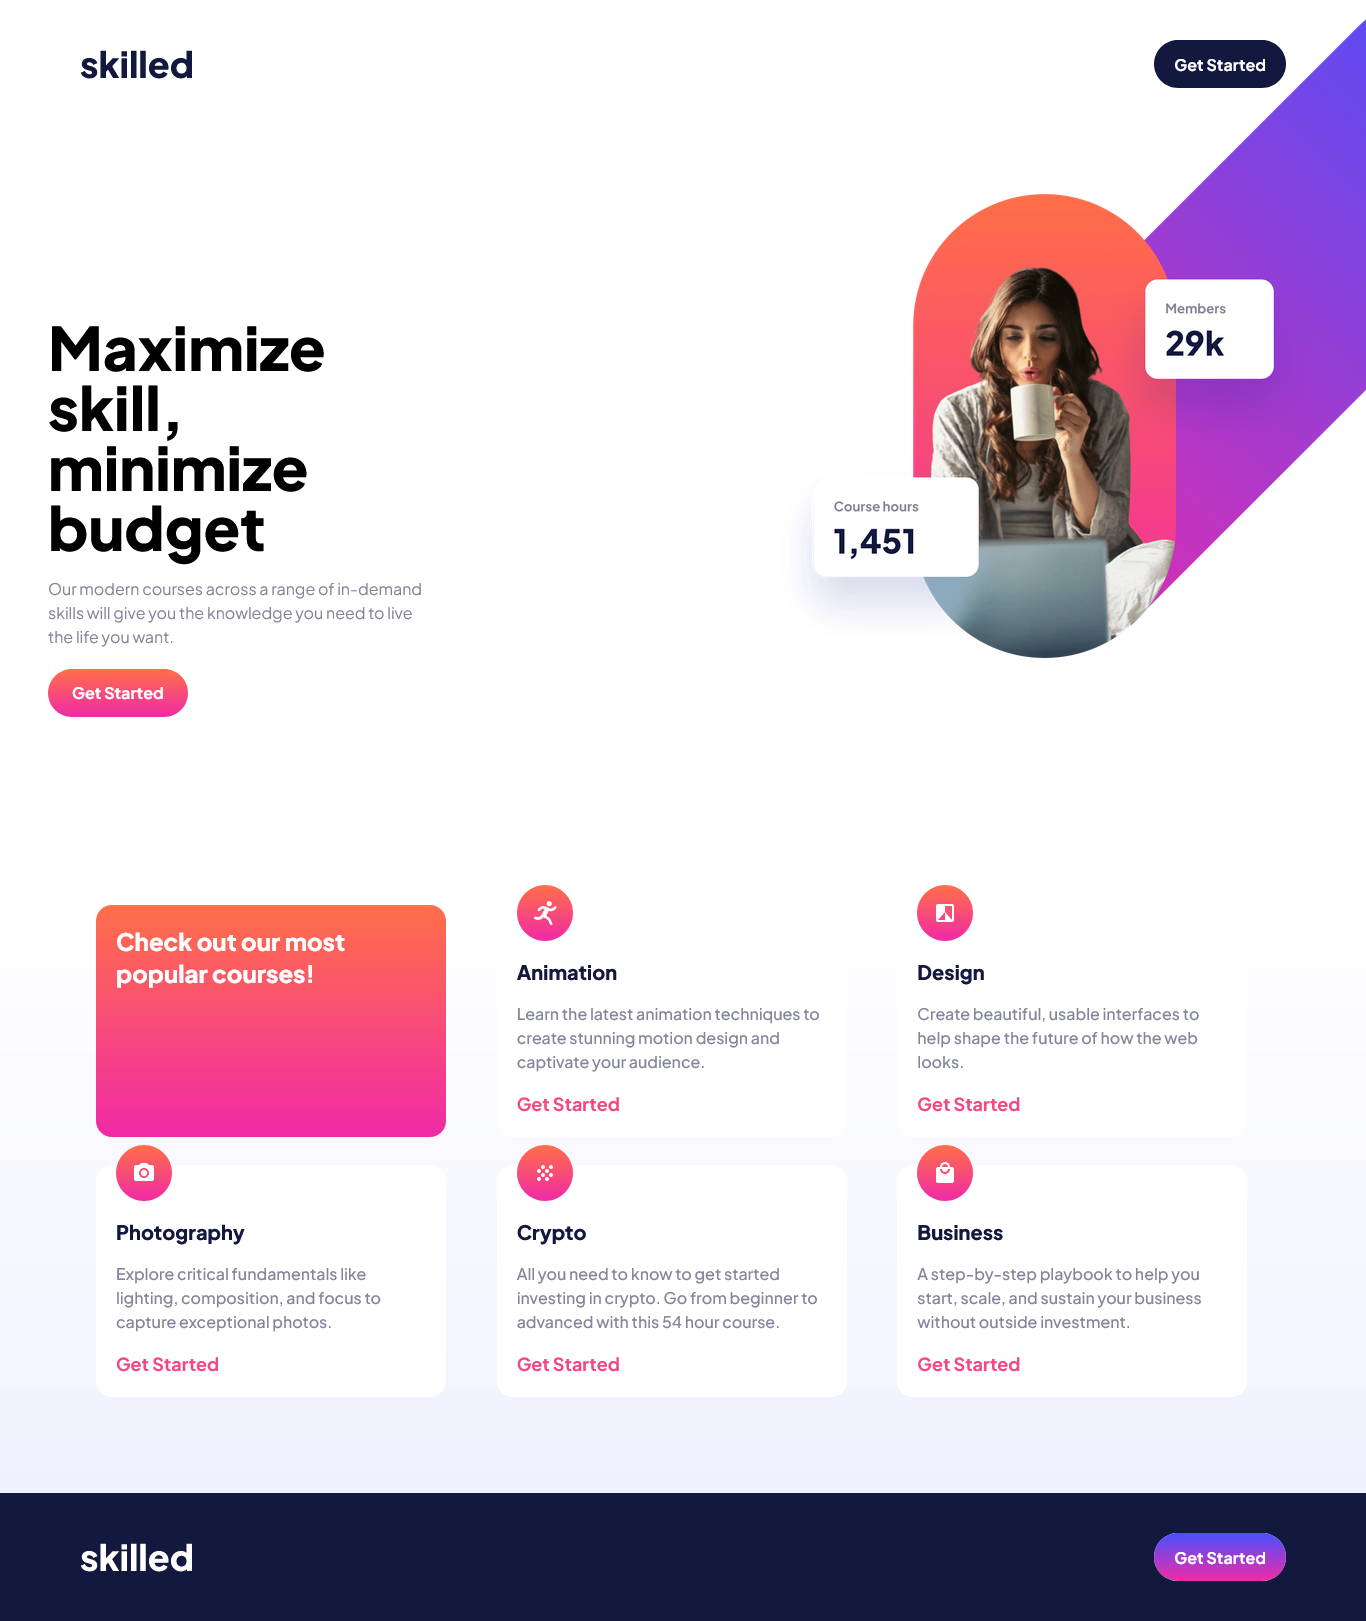
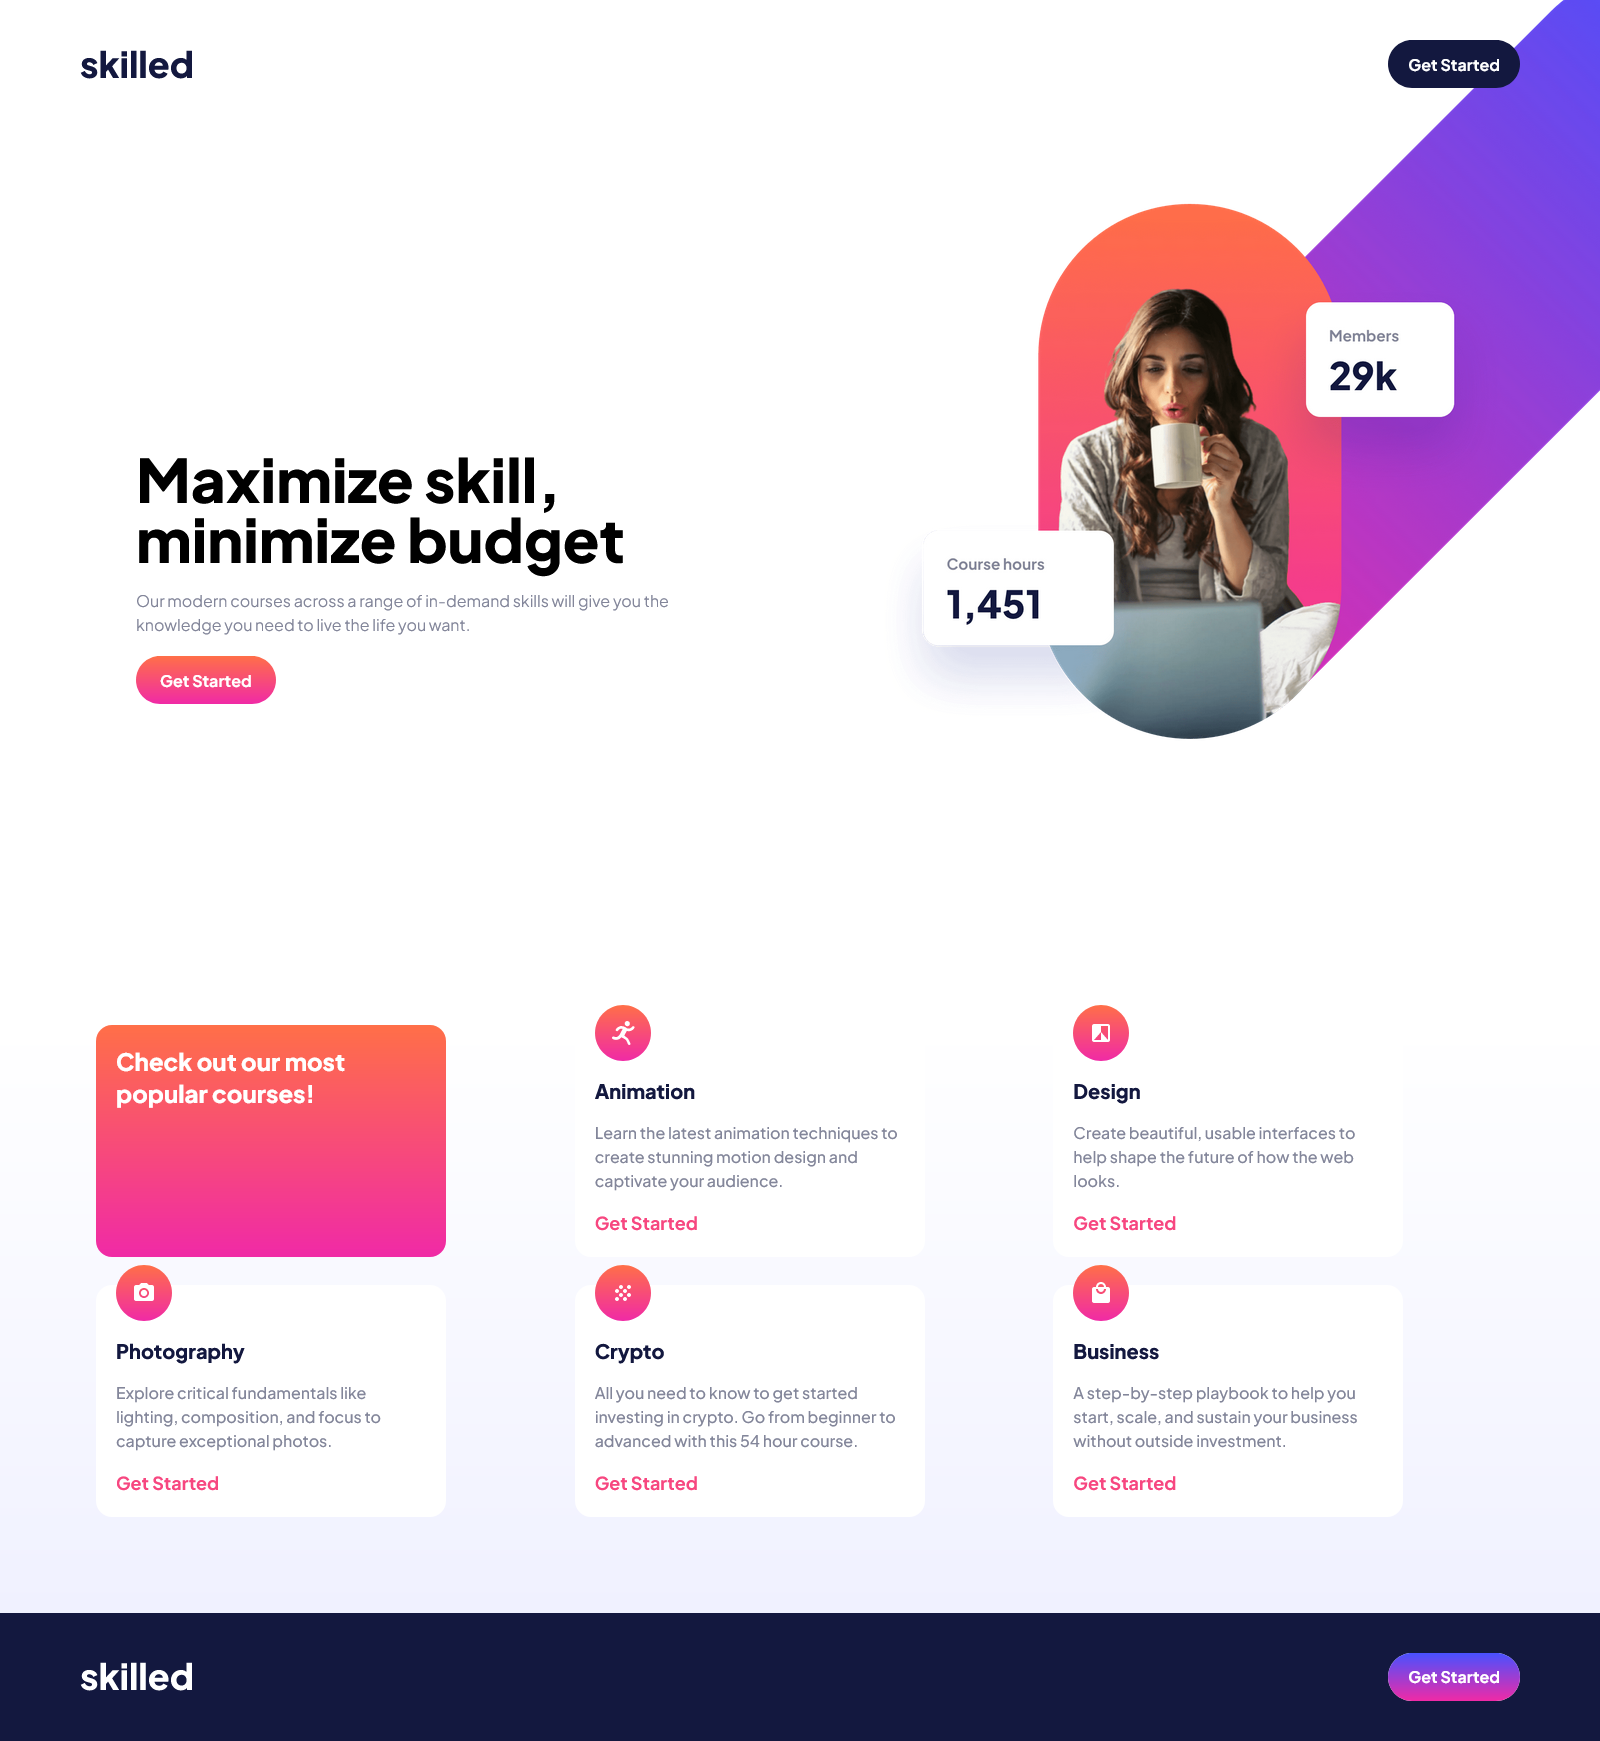
final commit

diff --git a/css/output.css b/css/output.css
@@ -1,1 +1,1 @@
-/*! tailwindcss v3.4.1 | MIT License | https://tailwindcss.com*/*,:after,:before{border:0 solid #e5e7eb;box-sizing:border-box}:after,:before{--tw-content:""}:host,html{-webkit-text-size-adjust:100%;font-feature-settings:normal;-webkit-tap-highlight-color:transparent;font-family:Plus Jakarta Sans,sans;font-variation-settings:normal;line-height:1.5;-moz-tab-size:4;-o-tab-size:4;tab-size:4}body{line-height:inherit;margin:0}hr{border-top-width:1px;color:inherit;height:0}abbr:where([title]){-webkit-text-decoration:underline dotted;text-decoration:underline dotted}h1,h2,h3,h4,h5,h6{font-size:inherit;font-weight:inherit}a{color:inherit;text-decoration:inherit}b,strong{font-weight:bolder}code,kbd,pre,samp{font-feature-settings:normal;font-family:ui-monospace,SFMono-Regular,Menlo,Monaco,Consolas,Liberation Mono,Courier New,monospace;font-size:1em;font-variation-settings:normal}small{font-size:80%}sub,sup{font-size:75%;line-height:0;position:relative;vertical-align:initial}sub{bottom:-.25em}sup{top:-.5em}table{border-collapse:collapse;border-color:inherit;text-indent:0}button,input,optgroup,select,textarea{font-feature-settings:inherit;color:inherit;font-family:inherit;font-size:100%;font-variation-settings:inherit;font-weight:inherit;line-height:inherit;margin:0;padding:0}button,select{text-transform:none}[type=button],[type=reset],[type=submit],button{-webkit-appearance:button;background-color:initial;background-image:none}:-moz-focusring{outline:auto}:-moz-ui-invalid{box-shadow:none}progress{vertical-align:initial}::-webkit-inner-spin-button,::-webkit-outer-spin-button{height:auto}[type=search]{-webkit-appearance:textfield;outline-offset:-2px}::-webkit-search-decoration{-webkit-appearance:none}::-webkit-file-upload-button{-webkit-appearance:button;font:inherit}summary{display:list-item}blockquote,dd,dl,figure,h1,h2,h3,h4,h5,h6,hr,p,pre{margin:0}fieldset{margin:0}fieldset,legend{padding:0}menu,ol,ul{list-style:none;margin:0;padding:0}dialog{padding:0}textarea{resize:vertical}input::-moz-placeholder,textarea::-moz-placeholder{color:#9ca3af;opacity:1}input::placeholder,textarea::placeholder{color:#9ca3af;opacity:1}[role=button],button{cursor:pointer}:disabled{cursor:default}audio,canvas,embed,iframe,img,object,svg,video{display:block;vertical-align:middle}img,video{height:auto;max-width:100%}[hidden]{display:none}*,::backdrop,:after,:before{--tw-border-spacing-x:0;--tw-border-spacing-y:0;--tw-translate-x:0;--tw-translate-y:0;--tw-rotate:0;--tw-skew-x:0;--tw-skew-y:0;--tw-scale-x:1;--tw-scale-y:1;--tw-pan-x: ;--tw-pan-y: ;--tw-pinch-zoom: ;--tw-scroll-snap-strictness:proximity;--tw-gradient-from-position: ;--tw-gradient-via-position: ;--tw-gradient-to-position: ;--tw-ordinal: ;--tw-slashed-zero: ;--tw-numeric-figure: ;--tw-numeric-spacing: ;--tw-numeric-fraction: ;--tw-ring-inset: ;--tw-ring-offset-width:0px;--tw-ring-offset-color:#fff;--tw-ring-color:#3b82f680;--tw-ring-offset-shadow:0 0 #0000;--tw-ring-shadow:0 0 #0000;--tw-shadow:0 0 #0000;--tw-shadow-colored:0 0 #0000;--tw-blur: ;--tw-brightness: ;--tw-contrast: ;--tw-grayscale: ;--tw-hue-rotate: ;--tw-invert: ;--tw-saturate: ;--tw-sepia: ;--tw-drop-shadow: ;--tw-backdrop-blur: ;--tw-backdrop-brightness: ;--tw-backdrop-contrast: ;--tw-backdrop-grayscale: ;--tw-backdrop-hue-rotate: ;--tw-backdrop-invert: ;--tw-backdrop-opacity: ;--tw-backdrop-saturate: ;--tw-backdrop-sepia: }.relative{position:relative}.z-10{z-index:10}.-mt-10{margin-top:-2.5rem}.flex{display:flex}.grid{display:grid}.hidden{display:none}.h-full{height:100%}.min-h-screen{min-height:100vh}.max-w-\[1000px\]{max-width:1000px}.max-w-\[350px\]{max-width:350px}.max-w-\[500px\]{max-width:500px}.resize{resize:both}.grid-cols-1{grid-template-columns:repeat(1,minmax(0,1fr))}.flex-col{flex-direction:column}.items-center{align-items:center}.justify-center{justify-content:center}.justify-between{justify-content:space-between}.gap-3{gap:.75rem}.gap-5{gap:1.25rem}.gap-7{gap:1.75rem}.space-y-4>:not([hidden])~:not([hidden]){--tw-space-y-reverse:0;margin-bottom:calc(1rem*var(--tw-space-y-reverse));margin-top:calc(1rem*(1 - var(--tw-space-y-reverse)))}.space-y-5>:not([hidden])~:not([hidden]){--tw-space-y-reverse:0;margin-bottom:calc(1.25rem*var(--tw-space-y-reverse));margin-top:calc(1.25rem*(1 - var(--tw-space-y-reverse)))}.overflow-x-hidden{overflow-x:hidden}.rounded-2xl{border-radius:1rem}.rounded-3xl{border-radius:1.5rem}.bg-13183F{--tw-bg-opacity:1;background-color:rgb(19 24 63/var(--tw-bg-opacity))}.bg-FFFFFF{--tw-bg-opacity:1;background-color:rgb(255 255 255/var(--tw-bg-opacity))}.bg-gradient-to-b{background-image:linear-gradient(to bottom,var(--tw-gradient-stops))}.from-FFFFFF{--tw-gradient-from:#fff var(--tw-gradient-from-position);--tw-gradient-to:#fff0 var(--tw-gradient-to-position);--tw-gradient-stops:var(--tw-gradient-from),var(--tw-gradient-to)}.from-g1a{--tw-gradient-from:#ff6f48 var(--tw-gradient-from-position);--tw-gradient-to:#ff6f4800 var(--tw-gradient-to-position);--tw-gradient-stops:var(--tw-gradient-from),var(--tw-gradient-to)}.from-g2a{--tw-gradient-from:#4851ff var(--tw-gradient-from-position);--tw-gradient-to:#4851ff00 var(--tw-gradient-to-position);--tw-gradient-stops:var(--tw-gradient-from),var(--tw-gradient-to)}.to-F0F1FF{--tw-gradient-to:#f0f1ff var(--tw-gradient-to-position)}.to-g1b,.to-g2b{--tw-gradient-to:#f02aa6 var(--tw-gradient-to-position)}.p-2{padding:.5rem}.p-5{padding:1.25rem}.px-10{padding-left:2.5rem;padding-right:2.5rem}.px-5{padding-left:1.25rem;padding-right:1.25rem}.px-6{padding-left:1.5rem;padding-right:1.5rem}.py-3{padding-bottom:.75rem;padding-top:.75rem}.pb-10{padding-bottom:2.5rem}.text-2xl{font-size:1.5rem;line-height:2rem}.text-4xl{font-size:2.25rem;line-height:2.5rem}.text-lg{font-size:1.125rem}.text-lg,.text-xl{line-height:1.75rem}.text-xl{font-size:1.25rem}.font-bold{font-weight:700}.font-extrabold{font-weight:800}.font-medium{font-weight:500}.text-13183F{--tw-text-opacity:1;color:rgb(19 24 63/var(--tw-text-opacity))}.text-83869A{--tw-text-opacity:1;color:rgb(131 134 154/var(--tw-text-opacity))}.text-F74780{--tw-text-opacity:1;color:rgb(247 71 128/var(--tw-text-opacity))}.text-FFFFFF{--tw-text-opacity:1;color:rgb(255 255 255/var(--tw-text-opacity))}@font-face{font-family:Plus Jakarta Sans;src:url(../fonts/PlusJakartaSans-VariableFont_wght.ttf) format("truetype")}.hover\:bg-666CA3:hover{--tw-bg-opacity:1;background-color:rgb(102 108 163/var(--tw-bg-opacity))}.hover\:opacity-50:hover{opacity:.5}@media (min-width:400px){.xs\:relative{position:relative}.xs\:grid-cols-2{grid-template-columns:repeat(2,minmax(0,1fr))}.xs\:grid-rows-3{grid-template-rows:repeat(3,minmax(0,1fr))}.xs\:px-10{padding-left:2.5rem;padding-right:2.5rem}.xs\:py-5{padding-bottom:1.25rem;padding-top:1.25rem}}@media (min-width:640px){.sm\:block{display:block}.sm\:hidden{display:none}.sm\:flex-row{flex-direction:row}.sm\:px-10{padding-left:2.5rem;padding-right:2.5rem}.sm\:px-16{padding-left:4rem;padding-right:4rem}.sm\:px-20{padding-left:5rem;padding-right:5rem}.sm\:py-10{padding-bottom:2.5rem;padding-top:2.5rem}.sm\:pb-16{padding-bottom:4rem}}@media (min-width:768px){.md\:block{display:block}.md\:hidden{display:none}.md\:grid-cols-3{grid-template-columns:repeat(3,minmax(0,1fr))}.md\:grid-rows-2{grid-template-rows:repeat(2,minmax(0,1fr))}.md\:px-24{padding-left:6rem;padding-right:6rem}.md\:pb-24{padding-bottom:6rem}.md\:text-5xl{font-size:3rem;line-height:1}}@media (min-width:1024px){.lg\:text-6xl{font-size:3.75rem;line-height:1}}
+/*! tailwindcss v3.4.1 | MIT License | https://tailwindcss.com*/*,:after,:before{border:0 solid #e5e7eb;box-sizing:border-box}:after,:before{--tw-content:""}:host,html{-webkit-text-size-adjust:100%;font-feature-settings:normal;-webkit-tap-highlight-color:transparent;font-family:Plus Jakarta Sans,sans;font-variation-settings:normal;line-height:1.5;-moz-tab-size:4;-o-tab-size:4;tab-size:4}body{line-height:inherit;margin:0}hr{border-top-width:1px;color:inherit;height:0}abbr:where([title]){-webkit-text-decoration:underline dotted;text-decoration:underline dotted}h1,h2,h3,h4,h5,h6{font-size:inherit;font-weight:inherit}a{color:inherit;text-decoration:inherit}b,strong{font-weight:bolder}code,kbd,pre,samp{font-feature-settings:normal;font-family:ui-monospace,SFMono-Regular,Menlo,Monaco,Consolas,Liberation Mono,Courier New,monospace;font-size:1em;font-variation-settings:normal}small{font-size:80%}sub,sup{font-size:75%;line-height:0;position:relative;vertical-align:initial}sub{bottom:-.25em}sup{top:-.5em}table{border-collapse:collapse;border-color:inherit;text-indent:0}button,input,optgroup,select,textarea{font-feature-settings:inherit;color:inherit;font-family:inherit;font-size:100%;font-variation-settings:inherit;font-weight:inherit;line-height:inherit;margin:0;padding:0}button,select{text-transform:none}[type=button],[type=reset],[type=submit],button{-webkit-appearance:button;background-color:initial;background-image:none}:-moz-focusring{outline:auto}:-moz-ui-invalid{box-shadow:none}progress{vertical-align:initial}::-webkit-inner-spin-button,::-webkit-outer-spin-button{height:auto}[type=search]{-webkit-appearance:textfield;outline-offset:-2px}::-webkit-search-decoration{-webkit-appearance:none}::-webkit-file-upload-button{-webkit-appearance:button;font:inherit}summary{display:list-item}blockquote,dd,dl,figure,h1,h2,h3,h4,h5,h6,hr,p,pre{margin:0}fieldset{margin:0}fieldset,legend{padding:0}menu,ol,ul{list-style:none;margin:0;padding:0}dialog{padding:0}textarea{resize:vertical}input::-moz-placeholder,textarea::-moz-placeholder{color:#9ca3af;opacity:1}input::placeholder,textarea::placeholder{color:#9ca3af;opacity:1}[role=button],button{cursor:pointer}:disabled{cursor:default}audio,canvas,embed,iframe,img,object,svg,video{display:block;vertical-align:middle}img,video{height:auto;max-width:100%}[hidden]{display:none}*,::backdrop,:after,:before{--tw-border-spacing-x:0;--tw-border-spacing-y:0;--tw-translate-x:0;--tw-translate-y:0;--tw-rotate:0;--tw-skew-x:0;--tw-skew-y:0;--tw-scale-x:1;--tw-scale-y:1;--tw-pan-x: ;--tw-pan-y: ;--tw-pinch-zoom: ;--tw-scroll-snap-strictness:proximity;--tw-gradient-from-position: ;--tw-gradient-via-position: ;--tw-gradient-to-position: ;--tw-ordinal: ;--tw-slashed-zero: ;--tw-numeric-figure: ;--tw-numeric-spacing: ;--tw-numeric-fraction: ;--tw-ring-inset: ;--tw-ring-offset-width:0px;--tw-ring-offset-color:#fff;--tw-ring-color:#3b82f680;--tw-ring-offset-shadow:0 0 #0000;--tw-ring-shadow:0 0 #0000;--tw-shadow:0 0 #0000;--tw-shadow-colored:0 0 #0000;--tw-blur: ;--tw-brightness: ;--tw-contrast: ;--tw-grayscale: ;--tw-hue-rotate: ;--tw-invert: ;--tw-saturate: ;--tw-sepia: ;--tw-drop-shadow: ;--tw-backdrop-blur: ;--tw-backdrop-brightness: ;--tw-backdrop-contrast: ;--tw-backdrop-grayscale: ;--tw-backdrop-hue-rotate: ;--tw-backdrop-invert: ;--tw-backdrop-opacity: ;--tw-backdrop-saturate: ;--tw-backdrop-sepia: }.relative{position:relative}.z-10{z-index:10}.-mt-10{margin-top:-2.5rem}.flex{display:flex}.grid{display:grid}.hidden{display:none}.h-full{height:100%}.min-h-screen{min-height:100vh}.max-w-\[1000px\]{max-width:1000px}.max-w-\[350px\]{max-width:350px}.max-w-\[600px\]{max-width:600px}.resize{resize:both}.grid-cols-1{grid-template-columns:repeat(1,minmax(0,1fr))}.flex-col{flex-direction:column}.items-center{align-items:center}.justify-center{justify-content:center}.justify-between{justify-content:space-between}.gap-3{gap:.75rem}.gap-5{gap:1.25rem}.gap-7{gap:1.75rem}.space-y-4>:not([hidden])~:not([hidden]){--tw-space-y-reverse:0;margin-bottom:calc(1rem*var(--tw-space-y-reverse));margin-top:calc(1rem*(1 - var(--tw-space-y-reverse)))}.space-y-5>:not([hidden])~:not([hidden]){--tw-space-y-reverse:0;margin-bottom:calc(1.25rem*var(--tw-space-y-reverse));margin-top:calc(1.25rem*(1 - var(--tw-space-y-reverse)))}.overflow-x-hidden{overflow-x:hidden}.rounded-2xl{border-radius:1rem}.rounded-3xl{border-radius:1.5rem}.bg-13183F{--tw-bg-opacity:1;background-color:rgb(19 24 63/var(--tw-bg-opacity))}.bg-FFFFFF{--tw-bg-opacity:1;background-color:rgb(255 255 255/var(--tw-bg-opacity))}.bg-gradient-to-b{background-image:linear-gradient(to bottom,var(--tw-gradient-stops))}.from-FFFFFF{--tw-gradient-from:#fff var(--tw-gradient-from-position);--tw-gradient-to:#fff0 var(--tw-gradient-to-position);--tw-gradient-stops:var(--tw-gradient-from),var(--tw-gradient-to)}.from-g1a{--tw-gradient-from:#ff6f48 var(--tw-gradient-from-position);--tw-gradient-to:#ff6f4800 var(--tw-gradient-to-position);--tw-gradient-stops:var(--tw-gradient-from),var(--tw-gradient-to)}.from-g2a{--tw-gradient-from:#4851ff var(--tw-gradient-from-position);--tw-gradient-to:#4851ff00 var(--tw-gradient-to-position);--tw-gradient-stops:var(--tw-gradient-from),var(--tw-gradient-to)}.to-F0F1FF{--tw-gradient-to:#f0f1ff var(--tw-gradient-to-position)}.to-g1b,.to-g2b{--tw-gradient-to:#f02aa6 var(--tw-gradient-to-position)}.p-2{padding:.5rem}.p-5{padding:1.25rem}.px-10{padding-left:2.5rem;padding-right:2.5rem}.px-5{padding-left:1.25rem;padding-right:1.25rem}.px-6{padding-left:1.5rem;padding-right:1.5rem}.py-3{padding-bottom:.75rem;padding-top:.75rem}.pb-10{padding-bottom:2.5rem}.ps-5{padding-inline-start:1.25rem}.text-2xl{font-size:1.5rem;line-height:2rem}.text-4xl{font-size:2.25rem;line-height:2.5rem}.text-lg{font-size:1.125rem}.text-lg,.text-xl{line-height:1.75rem}.text-xl{font-size:1.25rem}.font-bold{font-weight:700}.font-extrabold{font-weight:800}.font-medium{font-weight:500}.text-13183F{--tw-text-opacity:1;color:rgb(19 24 63/var(--tw-text-opacity))}.text-83869A{--tw-text-opacity:1;color:rgb(131 134 154/var(--tw-text-opacity))}.text-F74780{--tw-text-opacity:1;color:rgb(247 71 128/var(--tw-text-opacity))}.text-FFFFFF{--tw-text-opacity:1;color:rgb(255 255 255/var(--tw-text-opacity))}@font-face{font-family:Plus Jakarta Sans;src:url(../fonts/PlusJakartaSans-VariableFont_wght.ttf) format("truetype")}.hover\:bg-666CA3:hover{--tw-bg-opacity:1;background-color:rgb(102 108 163/var(--tw-bg-opacity))}.hover\:opacity-50:hover{opacity:.5}@media (min-width:400px){.xs\:relative{position:relative}.xs\:grid-cols-2{grid-template-columns:repeat(2,minmax(0,1fr))}.xs\:grid-rows-3{grid-template-rows:repeat(3,minmax(0,1fr))}.xs\:px-10{padding-left:2.5rem;padding-right:2.5rem}.xs\:py-5{padding-bottom:1.25rem;padding-top:1.25rem}.xs\:ps-10{padding-inline-start:2.5rem}}@media (min-width:640px){.sm\:block{display:block}.sm\:hidden{display:none}.sm\:flex-row{flex-direction:row}.sm\:px-10{padding-left:2.5rem;padding-right:2.5rem}.sm\:px-16{padding-left:4rem;padding-right:4rem}.sm\:px-20{padding-left:5rem;padding-right:5rem}.sm\:py-10{padding-bottom:2.5rem;padding-top:2.5rem}.sm\:pb-16{padding-bottom:4rem}}@media (min-width:768px){.md\:grid-cols-3{grid-template-columns:repeat(3,minmax(0,1fr))}.md\:grid-rows-2{grid-template-rows:repeat(2,minmax(0,1fr))}.md\:px-24{padding-left:6rem;padding-right:6rem}.md\:pb-24{padding-bottom:6rem}.md\:text-5xl{font-size:3rem;line-height:1}}@media (min-width:1024px){.lg\:text-6xl{font-size:3.75rem;line-height:1}}@media (min-width:1280px){.xl\:px-32{padding-left:8rem;padding-right:8rem}}

diff --git a/index.html b/index.html
@@ -27,9 +27,9 @@
       <!-- Main -->
       <main>
         <!-- First Section -->
-        <article class="flex flex-col justify-between items-center sm:flex-row sm:px-10 gap-5">
+        <article class="flex flex-col justify-between items-center sm:flex-row sm:px-10 xl:px-32 gap-5">
           <!-- Text and Button -->
-          <div class="p-2 space-y-5 max-w-[500px]" id="hero-section">
+          <div class="p-2 space-y-5 max-w-[600px] ps-5 xs:ps-10 md:pd-16" id="hero-section">
             <h2 class="text-4xl md:text-5xl lg:text-6xl font-extrabold">
               Maximize skill, minimize budget
             </h2>
@@ -42,11 +42,10 @@
             </button>
           </div>
           <!-- Image -->
-          <div class="max-w-[1000px]">
+          <div class="max-w-[1000px]" id="image-hero-wrapper">
             <div class="xs:relative" id="image-hero">
               <img class="sm:hidden" src="assets/image-hero-mobile@2x.webp" alt="image hero mobile">
-              <img class="hidden sm:block md:hidden" src="assets/image-hero-tablet@2x.png" alt="image-hero-tablet">
-              <img class="hidden md:block" src="assets/image-hero-desktop@2x.png" alt="image-hero-desktop">
+              <img class="hidden sm:block" src="assets/image-hero-desktop@2x.png" alt="image-hero-desktop">
             </div>
           </div>
         </article>

diff --git a/js/main.js b/js/main.js
@@ -1,13 +1,16 @@
 var heroImg = document.getElementById("image-hero");
+var heroWrapper = document.getElementById("image-hero-wrapper");
 
 function adjustHero(){
     if(window.innerWidth >= 640){
         heroImg.style.top = -heroImg.clientHeight/4 + "px";
-        heroImg.style.right = -heroImg.clientWidth/2.8 + "px";
+        heroImg.style.right = -heroImg.clientWidth/2.5 + "px";
+        heroWrapper.style.marginLeft = -heroImg.clientWidth/2.5 + "px";
     }
-    else{
+    else if(window.innerWidth < 640){
         heroImg.style.top = 0;
         heroImg.style.right = 0;
+        heroWrapper.style.marginLeft = 0;
     }
 
 }
